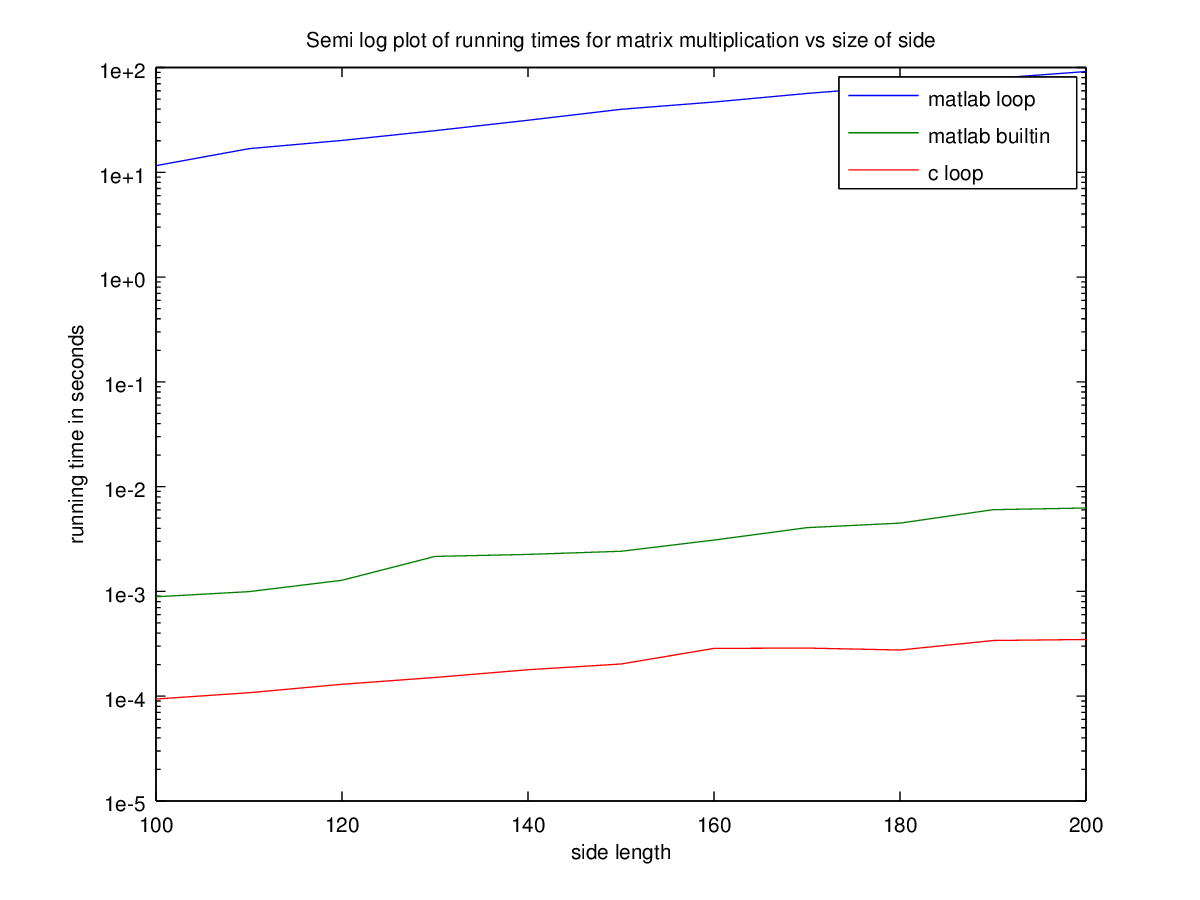
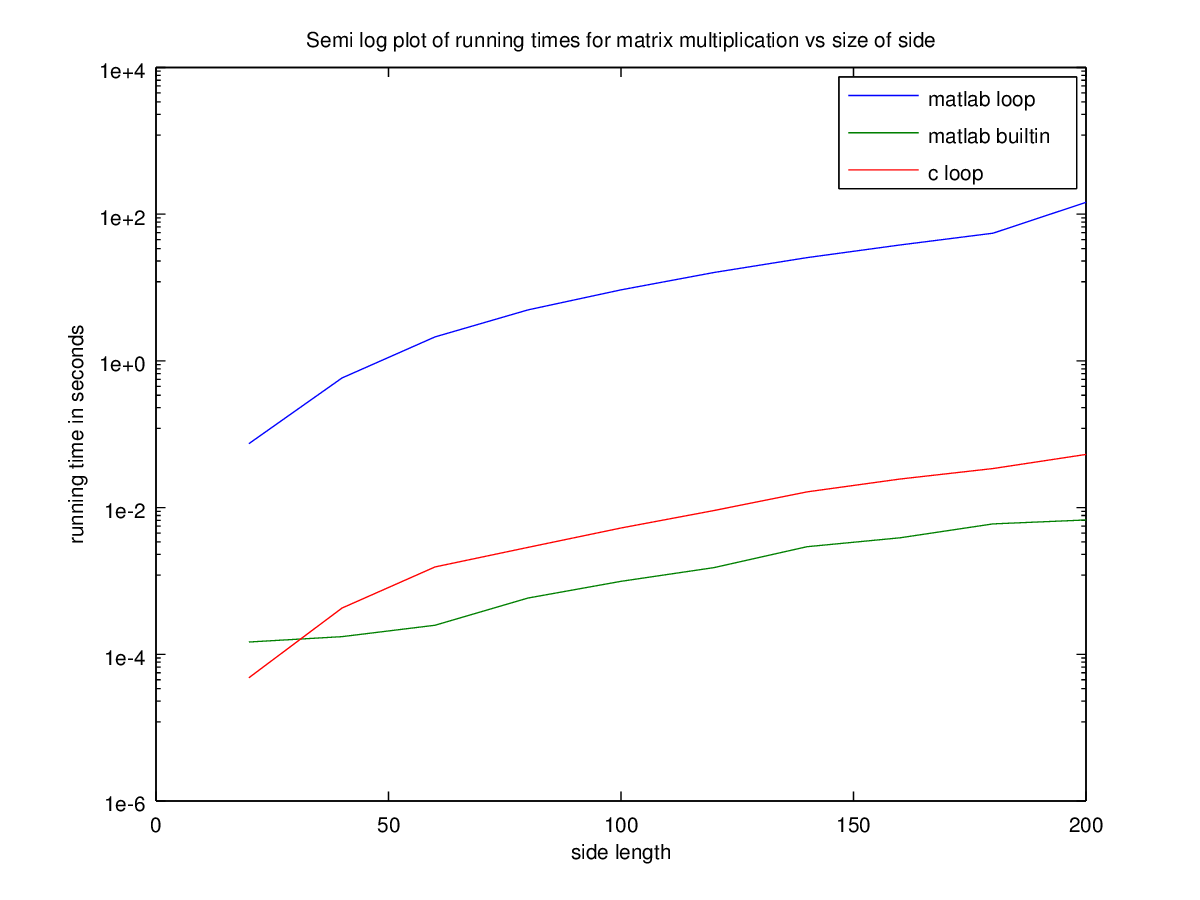
changes

diff --git a/hw1/matmult.c b/hw1/matmult.c
@@ -37,7 +37,7 @@ double **matmult(double **m1, double **m2, int n){
    int i,j,k;
    double **m = matrix_new(n);
    for(i = 0; i < n; ++i){
-      for(j = 0; i < n; ++i){
+      for(j = 0; j < n; ++j){
          m[i][j] = 0;
          for(k = 0; k < n; ++k){
             m[i][j] += m1[i][k]*m2[k][j];
@@ -62,9 +62,15 @@ int main(int argc, char **argv){
    int i;
    float runt;
 
-   for(i = 100; i <= 200; i += 10){
+   if (argc > 1){ //if n is provided, just run for that n
+      i = atoi(argv[1]);
       runt = time_it(i);
-      printf("%d  %4.4e\n", i, runt);
+      printf("%4.4e\n", runt);
+   } else { //run for a range of n's
+      for(i = 100; i <= 1000; i += 100){
+         runt = time_it(i);
+         printf("%d  %4.4e\n", i, runt);
+      }
    }
 
    return 0;

diff --git a/hw1/matmult.m b/hw1/matmult.m
@@ -1,21 +1,22 @@
 function _  = matmult
-   printf("Size        t1          t2\n");
-   for i = 100:10:200
-      [t1 t2] = time_it(i);
-      printf("%4.0d %0.5g %0.5g\n", i, t1, t2);
+   for i = 20:20:200
+      [t1 t2 t3] = time_it(i);
+      printf("%4.0d %0.5g %0.5g %0.5g\n", i, t1, t2, t3);
       fflush(stdout);
    end
 end
 
-function [t1 t2] = time_it(n)
+function [tloop tbuiltin tnative] = time_it(n)
    m1 = generate_matrix(1,n);
    m2 = generate_matrix(2,n);
-   tic();
+   tic;
    mult1 = mult_mat_loop(m1,m2);
-   t1 = toc();
-   tic ();
+   tloop = toc;
+   tic;
    mult2 = m1*m2;
-   t2 = toc;
+   tbuiltin = toc;
+   [status,cmdout] = system(["./matmult.o " num2str(n)]);
+   tnative = str2num(cmdout);
 end
 
 function m = generate_matrix(i,n)

diff --git a/hw1/rref.py b/hw1/rref.py
@@ -1,4 +1,7 @@
 #This program needs the numpy python package
+#Execute: python rref.py
+
+
 import numpy as np
 from pprint import pprint as pp
 
@@ -46,6 +49,7 @@ def backsub(mat):
 
 
 def main():
+    # Solved for a sample matrix
     A = np.matrix( """[1 1 0 0 0 0 -1 -8;
                        0 0 1 1 0 0 -1 -5;
                        0 0 0 0 1 1 -1 -1;

diff --git a/hw1/magic_square.m b/hw1/magic_square.m
@@ -38,9 +38,9 @@ B = rref(A)
 
 % Solving this we get:
 
-%  |  8   9  -2 |
-%  | -5   5  15 |
-%  | 12   1   2 |
+C=  [  8   9  -2 ;
+      -5   5  15 ;
+      12   1   2 ]
 
 % This meets all the constraints. 
 
